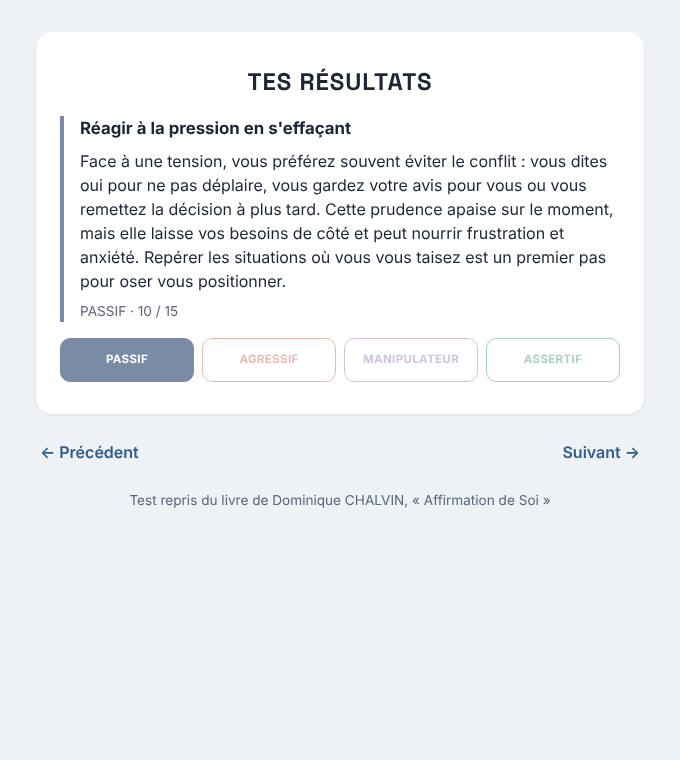
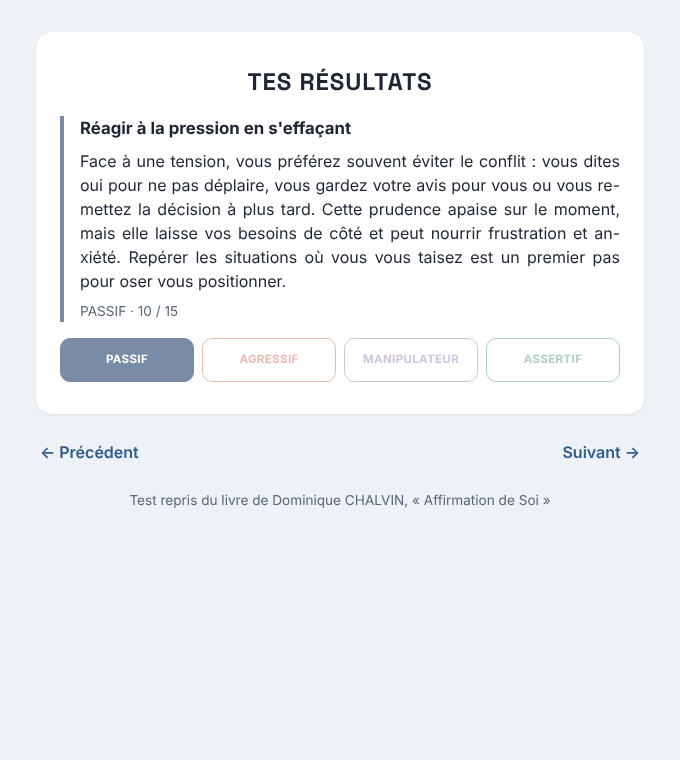
style: justify body text with French hyphenation

Changed region(s): [[0.1235, 0.1816, 0.9265, 0.3632]]

diff --git a/src/styles/main.css b/src/styles/main.css
@@ -211,11 +211,21 @@ h1 {
     text-wrap: pretty;
 }
 
-.panel p {
-    text-wrap: pretty;
+/* Texte courant justifié, avec césure française pour éviter les grands blancs sur mobile */
+.panel p,
+.definitions,
+.posture-card p {
+    text-align: justify;
+    hyphens: auto;
 }
 
-.panel-hint {
+.panel .panel-hint,
+.posture-card .posture-score {
+    text-align: left;
+    hyphens: manual;
+}
+
+.panel .panel-hint {
     text-align: center;
     font-size: 0.85rem;
     color: var(--color-muted);

diff --git a/CHANGELOG.md b/CHANGELOG.md
@@ -19,6 +19,7 @@ Format : [Keep a Changelog](https://keepachangelog.com/fr/1.1.0/), versions : [S
 - Histogramme et cartes de détail aux couleurs des postures.
 - Accents ajoutés aux titres (RÈGLES, TES RÉSULTATS) ; « faîtes » corrigé en « faites ».
 - Espaces insécables avant « : ; ? ! » et à l'intérieur des guillemets, pour éviter un signe seul en début de ligne.
+- Texte courant justifié, avec césure française pour éviter les grands blancs.
 
 ## [0.3.0] - 2026-11-26
 
